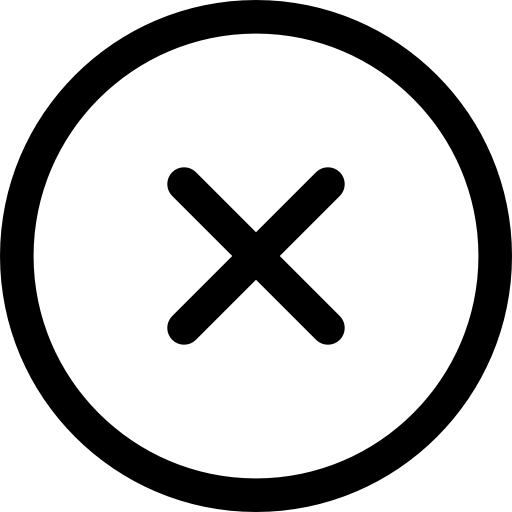
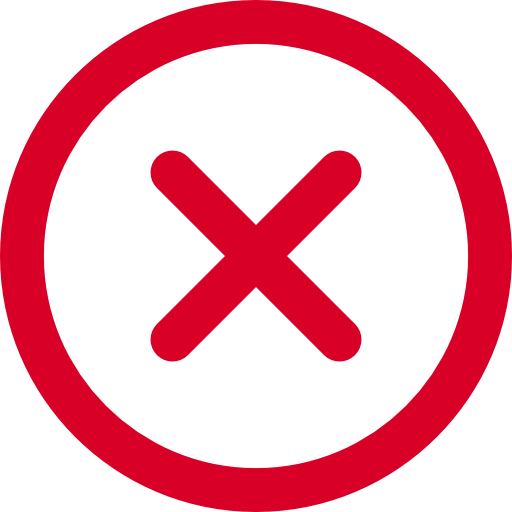
Получение настроек из файла + цветные иконки

diff --git a/mainwindow.cpp b/mainwindow.cpp
@@ -9,7 +9,10 @@ MainWindow::MainWindow(QWidget *parent) :
 
     // ------------------------- Всякая красота ----------------------------
 
-    this->setWindowTitle(tr("Запись в объединения"));
+    QSettings settings (":/data/Other/config.ini", QSettings::IniFormat);
+    settings.beginGroup("Settings");
+    this->setWindowTitle(settings.value("windowtile").toString());
+    settings.endGroup();
 
     // --------------------------- Main ToolBar ----------------------------
 
@@ -21,14 +24,8 @@ MainWindow::MainWindow(QWidget *parent) :
     ui->mainToolBar->addAction(QIcon(":/icons/Icons/help.png"), tr("Помощь"), this, SLOT(help()));
     ui->mainToolBar->addAction(QIcon(":/icons/Icons/info.png"), tr("О программе"), this, SLOT(programInfo()));
 
-    ui->toolBar->addAction(QIcon(":/icons/Icons/db.png"), tr("Настройки соединения"), this, SLOT(changeConfig()));
-
     names = new QRegularExpression("^[А-ЯЁ]{1}[а-яё]*(-[А-ЯЁ]{1}[а-яё]*)?$");
     words = new QRegularExpression();
-
-    dialog = new ConnectionDialog();
-    //connect (dialog, SIGNAL(connectReconfig()), this, SLOT(configIsChange()));
-    connect (dialog, SIGNAL(connectReconfig()), this, SLOT(connectDB()));
 
     // Получение инфы обобъединениях
 
@@ -58,14 +55,7 @@ MainWindow::MainWindow(QWidget *parent) :
 
     // ----------------------------- DataBase ------------------------------
 
-    // Временная строчка - указан путь к базе.
-    // D:/Domerk/GUAP/Diplom/kcttTempDB.sqlite
-    if (!connectDB())
-    {
-        // просим указать параметры соединения
-        changeConfig();
-    }
-
+    connectDB();
 }
 
 MainWindow::~MainWindow()
@@ -75,7 +65,6 @@ MainWindow::~MainWindow()
 
     delete names;
     delete words;
-    delete dialog;
     delete ui;
 }
 
@@ -94,11 +83,13 @@ bool MainWindow::connectDB()
         myDB = QSqlDatabase::addDatabase("QSQLITE");    // Указываем СУБД
     }
 
-    QSettings settings ("Kctt", "KcttTempDB");
+    QSettings settings (":/data/Other/config.ini", QSettings::IniFormat);
+    settings.beginGroup("Сonnection");
     myDB.setHostName(settings.value("hostname", "localhost").toString());
     myDB.setDatabaseName(settings.value("dbname", "kcttTempDB").toString());
     myDB.setUserName(settings.value("username").toString());
     myDB.setPassword(settings.value("password").toString());
+    settings.endGroup();
 
     if (myDB.open() && !myDB.isOpenError() && myDB.isValid())                            // Открываем соединение
     {
@@ -230,9 +221,6 @@ void MainWindow::saveInfo()
     else
     {
         // Выводим сообщение с инфой
-        // Вероятно, имеет смысл иметь возможность вызвать отсюда окна с настройками соединения
-
-
         ui->lblStatus->setText(tr("Ошибка сохранения: отсутсвует соединение с базой"));
         QMessageBox messageBox(QMessageBox::Information,
                                tr("Сохранение"),
@@ -323,9 +311,4 @@ void MainWindow::programInfo()
 // ============================================================
 // ============================================================
 // ============================================================
-
-void MainWindow::changeConfig()
-{
-    dialog->exec();
-}
 

diff --git a/mainwindow.h b/mainwindow.h
@@ -12,8 +12,7 @@
 #include <QRegularExpressionMatch>
 #include <QTextStream>
 #include <QComboBox>
-
-#include "connectiondialog.h"
+#include <QSettings>
 
 namespace Ui {
 class MainWindow;
@@ -34,8 +33,6 @@ private:
     QRegularExpression *names;
     QRegularExpression *words;
 
-    ConnectionDialog *dialog;
-
     void cleaner();
     void getDataAss(QStringList* qsl, QComboBox* comboBox);
 
@@ -44,7 +41,6 @@ private slots:
     void clearForm();
     void help();
     void programInfo();
-    void changeConfig();
 
     bool connectDB();
 
